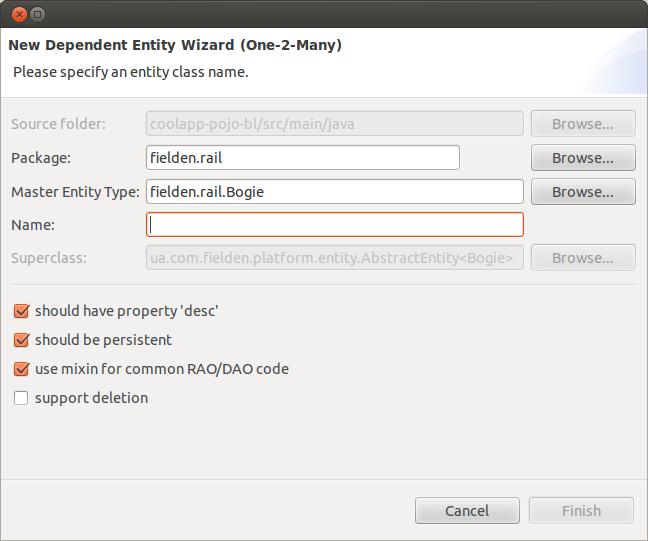
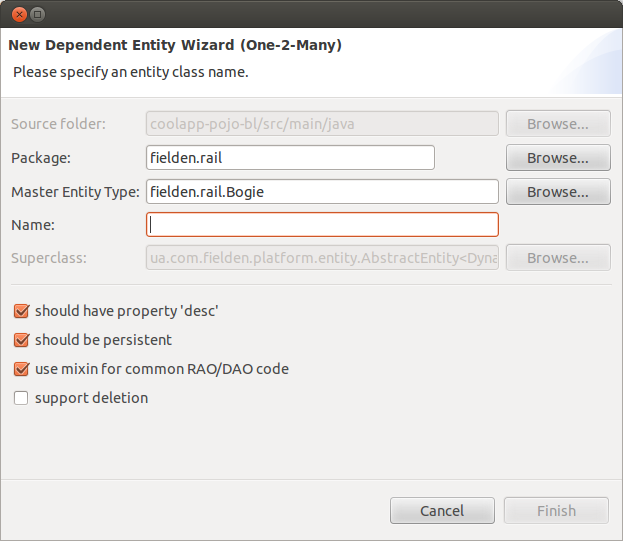
refs #477
Further work on tools chapter.

git-svn-id: http://kid/svn/trident-genesis/trunk@4858 50ee8237-08a1-5d4c-b143-727193748607

diff --git a/platform-doc/doc/developers-guide/parts/02-part/chapters/00-tools/tools.tex b/platform-doc/doc/developers-guide/parts/02-part/chapters/00-tools/tools.tex
@@ -677,6 +677,182 @@ public class Bogie extends AbstractEntity<String> {
     
   \subsection{Creation of Entities that Model One-2-Many Association}  
   
+  The one-2-many kind of entities have a composite key, where a corresponding mater entity is always a part of -- one of the composite key members.
+  From the entity object definition perspective this is the only principle differentiator of this entity kind from the rest.
+  However, semantically one-2-many entities are more rich than one-2-one kind.
+  Their association with master entity may have either aggregational or compositional meaning, which depends strictly on the specific nature of the modelled domain.
+  
+  A good example for compositional association is the purchase order that may have multiple items.
+  If a purchase order is removed then it is only natural to remove its items.
+  As the same time, in the library domain, books associated with library are not necessarily removed if a library that holds them gets closed.
+  Those books could be relocated to another library before their master library closes.
+  
+  As before, let's consider a concrete example to demonstrate plugin in action and discuss the generated artefacts.
+  The \texttt{Bogie} entity is chosen as the master enitity, which is used to create a new one-2-many entity \texttt{WheelsetSlot}.
+  Each bogie may have one or more slots.
+  Fig.~\ref{img:ch02:00:model-actions-new-one-2-many-entity} depicts a dialog invoked from a context menu on entity \texttt{Bogie}.
+  This enityt is then automatically used as the master entity type.
+  The provided annotations describe the dialog prompts, which are almost identical to the ones used for one-2-one entity creation.
+  
+  The new entity \texttt{WheelsetSlot} models a physical part of a bogie that is used for mounting wheelsets onto the bogie.
+  Every instance of this entity, represents a concrete physical part and thus needs to be associated with a specific instance of entity \texttt{Bogie}.
+  Also, every wheelset slot has a sequential number starting with 1 that represents slot's position on a bogie.
+  Together, a bogie and a slot position on that bogie, uniquely identify a concrete wheelset slot.
+  Therefore, entity \texttt{WheelsetSlot} has a composite business key, which is modelled with type \texttt{DynamicEntityKey}.
+  
+
+  \begin{image}{Create One-2-Many Entity/Companion Objects.}{\label{img:ch02:00:model-actions-new-one-2-many-entity}}
+      \begin{tikzpicture}[remember picture, >=latex', note/.style={rectangle callout, rounded corners = 1pt, fill=annotationbgcolor, drop shadow}]
+	\pgftext{%
+	    \includegraphics[width=0.6\textwidth]{parts/02-part/chapters/00-tools/images/01-03-new-one-2-many-entity.png}
+	}%
+
+	\node [overlay, note=annotationbgcolor, callout absolute pointer={(-4,2.2)}] at (-6.5,3.5) 
+	{
+	  \begin{minipage}{3cm}
+	  \tiny
+	  \textbf{Source folder}\newline
+	  Regardless of where the context menu is invoked, the source folder is identified automatically and always points to the pojo-bl module of the application.
+	  \end{minipage}
+	};
+	
+	\node [overlay, note=annotationbgcolor, callout absolute pointer={(-4.4,1.5)}] at (-6.5,0.5) 
+	{
+	  \begin{minipage}{3cm}
+	  \tiny
+	  \textbf{Package name}\newline
+	  If the action is selected from a context menu that was invoked on a package then the package name gets populated automatically.
+	  Otherwise it needs to be specified manually or selected for a dialog that is accessible via button \emph{Browse}.
+	  \end{minipage}
+	};
+	
+
+	\node [overlay, note=annotationbgcolor, callout absolute pointer={(0.0,1.2)}] at (3.0,3.2) 
+	{
+	  \begin{minipage}{3cm}
+	  \tiny
+	  \textbf{Master Entity Type}\newline
+	  This is a name of the class representing an entity object that should be used as a master to the one-2-many class being created.
+	  \end{minipage}
+	};      
+	
+	
+	\node [overlay, note=annotationbgcolor, callout absolute pointer={(0.0,0.7)}] at (5.0,-0.1) 
+	{
+	  \begin{minipage}{3.5cm}
+	  \tiny
+	  \textbf{Name}\newline
+	  This is a class name that should adhere to camel case naming convention.
+	  It is used as the name for a class representing an entity object.
+	  \end{minipage}
+	};      
+
+	\node [overlay, note=annotationbgcolor, callout absolute pointer={(0.0,0.0)}] at (2.0,-2.1) 
+	{
+	  \begin{minipage}{4cm}
+	  \tiny
+	  \textbf{Superclass}\newline
+	  All entity objects are descendants of class \texttt{AbstractEntity}.
+	  The key for one-2-many entity has always type \texttt{DynamicEntityKey}.
+	  \end{minipage}
+	};      
+
+	\node [overlay, note=annotationbgcolor, callout absolute pointer={(-4.4,-1.0)}] at (-6.5,-2) 
+	{
+	  \begin{minipage}{3cm}
+	  \tiny
+	  \textbf{Options}\newline
+	  Provides support for customising an entity being generated.
+	  More details about each option are outlined in the text.
+	  \end{minipage}
+	};
+      \end{tikzpicture}  
+    \end{image}  
+
+    Listing~\ref{lst:ch02:00:WheelsetSlot} outlines the generated source of the \texttt{WheelsetSlot} class.
+    The only modification that was done to this class after it was created, pertains to values in annotations \texttt{@KeyTitle}, \texttt{@DescTitle} and \texttt{@Title}.
+    This was needed in order to provide more meaningful description of the entity and its properties.
+    
+  \begin{code}{One-2-many entity \texttt{WheelsetSlot}.}{\label{lst:ch02:00:WheelsetSlot}}{codebgcolor}
+  \begin{lstlisting}
+@MapEntityTo
+@KeyType(DynamicEntityKey.class)
+@KeyTitle(value = "Wheelset Slot", desc = "A slot on a bogie for mounting a wheelset.")
+@CompanionObject(IWheelsetSlot.class)
+@DescTitle(value = "Desc", desc = "Short annotation about this specific wheelset slot.")
+public class WheelsetSlot extends AbstractEntity<DynamicEntityKey> {%\tikzref{key-type}{-2.0cm}{0.1cm}%
+
+    @IsProperty
+    @Title(value = "Bogie", desc = "Bogie where this slot belongs")
+    @MapTo
+    @CompositeKeyMember(1)%\tikzref{key-member-1}{0.1cm}{0.0cm}%
+    private Bogie bogie;
+
+    @Observable
+    @EntityExists(Bogie.class)
+    public WheelsetSlot setBogie(final Bogie value) {
+        this.bogie = value;
+        return this;
+    }                        %\tikzref{key-member-1-accessors}{1.0cm}{0.1cm}%
+
+    public Bogie getBogie() {
+        return bogie;
+    }
+
+}
+  \end{lstlisting}
+  \tikznote{key-type-annotation}{key-type}{1.5cm}{1.7cm}{7cm}{Key type parameter}{
+    All one-2-many entities have \texttt{DynamicEntityKey} as their key type, which represents a composite key that is identified dynamically from class structure.
+  }
+  \tikznote{key-member-1-annotation}{key-member-1}{6.0cm}{-0.3cm}{9cm}{Master as key member}{
+    The master entity (\texttt{Bogie} in this case) is always one of the composite key members.
+    Both the property name and its type are determined automatically using the specified master entity type.
+    It is suggested to always make master entity to be the first key member, which is governed by value in annotation \texttt{@CompositeKeyMember}.
+  }
+  \tikznote{key-member-1-accessors-annotation}{key-member-1-accessors}{5.0cm}{-0.7cm}{5cm}{Key member accessors}{
+    Accessors for composite key members are ordinary and have nothing special that would differentiate them form any other property accessors.
+  }    
+  \vspace*{-7px}
+\end{code}          
+    
+    The generated entity includes only one key member, which was determined automatically based on the specified master entity type.
+    Any additional members need to be added manually.
+    This, however, can be conveniently done using template \texttt{tgprop-composite-key-entity-member} or \texttt{tgprop-composite-key-ordinary-member} in the source of entity \texttt{WheelsetSlot} in the place where a new property should be generated (e.g. underneath the \texttt{bogie} property).
+    In our case, it is required to have the second key member \texttt{position} of type \texttt{Integer}.
+    Therefore, template \texttt{tgprop-composite-key-ordinary-member} should be used to generate it.
+    Listing~\ref{lst:ch02:00:WheelsetSlot-key-2} 
+    
+   \lstset{firstnumber=13}
+  \begin{code}{Second key member for entity \texttt{WheelsetSlot}.}{\label{lst:ch02:00:WheelsetSlot-key-2}}{codebgcolor}
+  \begin{lstlisting}
+...
+    @IsProperty
+    @MapTo
+    @Title(value = "Position", desc = "Slot's position")
+    @CompositeKeyMember(2)%\tikzref{key-member-2}{0.1cm}{0.1cm}%
+    private Integer position;
+
+    @Observable
+    public WheelsetSlot setPosition(final Integer position) {
+	this.position = position;
+	return this;
+    }                           %\tikzref{key-member-2-accessors}{0.1cm}{0.0cm}%
+                                            
+    public Integer getPosition() {
+	return position;
+    }
+...
+  \end{lstlisting}
+  \tikznote{key-member-2-annotation}{key-member-2}{3.5cm}{1.cm}{6cm}{Second key member}{
+    Annotation \texttt{@CompositeKeyMember} for the second key member \texttt{position} should specify $2$ as its value.
+  }
+  \tikznote{key-member-2-accessors-annotation}{key-member-2-accessors}{5.0cm}{-0.7cm}{5cm}{Key member accessors}{
+    Accessors for composite key members are ordinary and have nothing special that would differentiate them form any other property accessors.
+  }    
+  \vspace*{-7px}
+\end{code}              
+    
+    
 \section{Creation of Main Menu Items and Entity Centres}  
   
   
